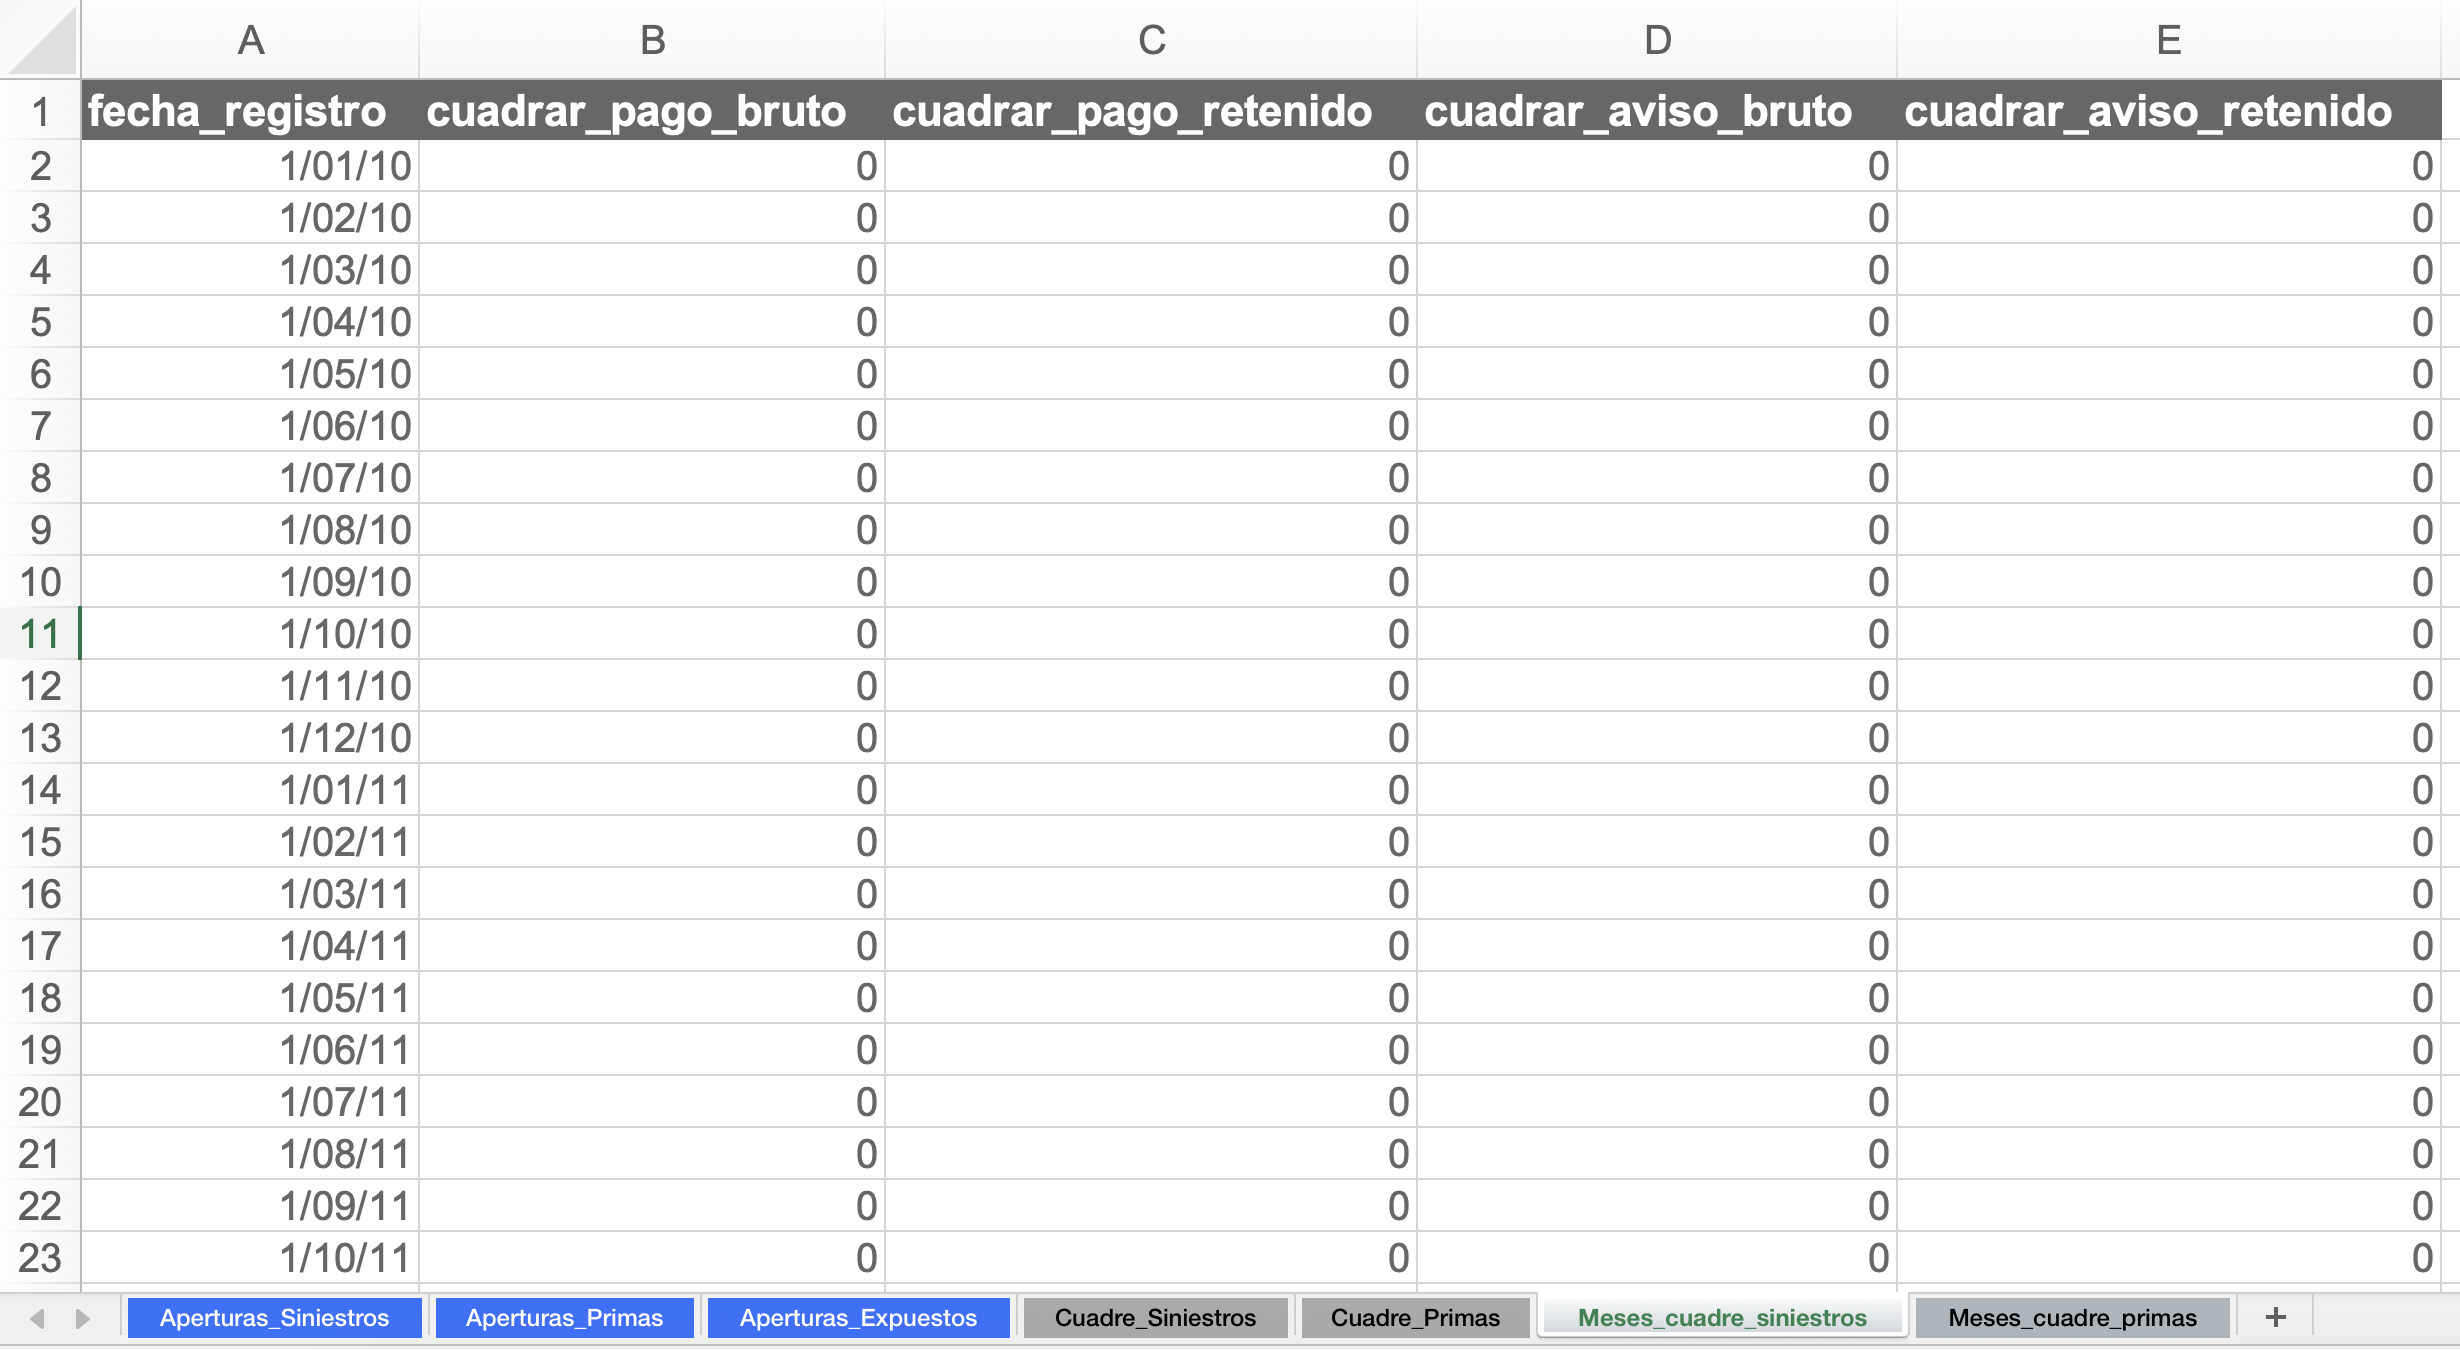
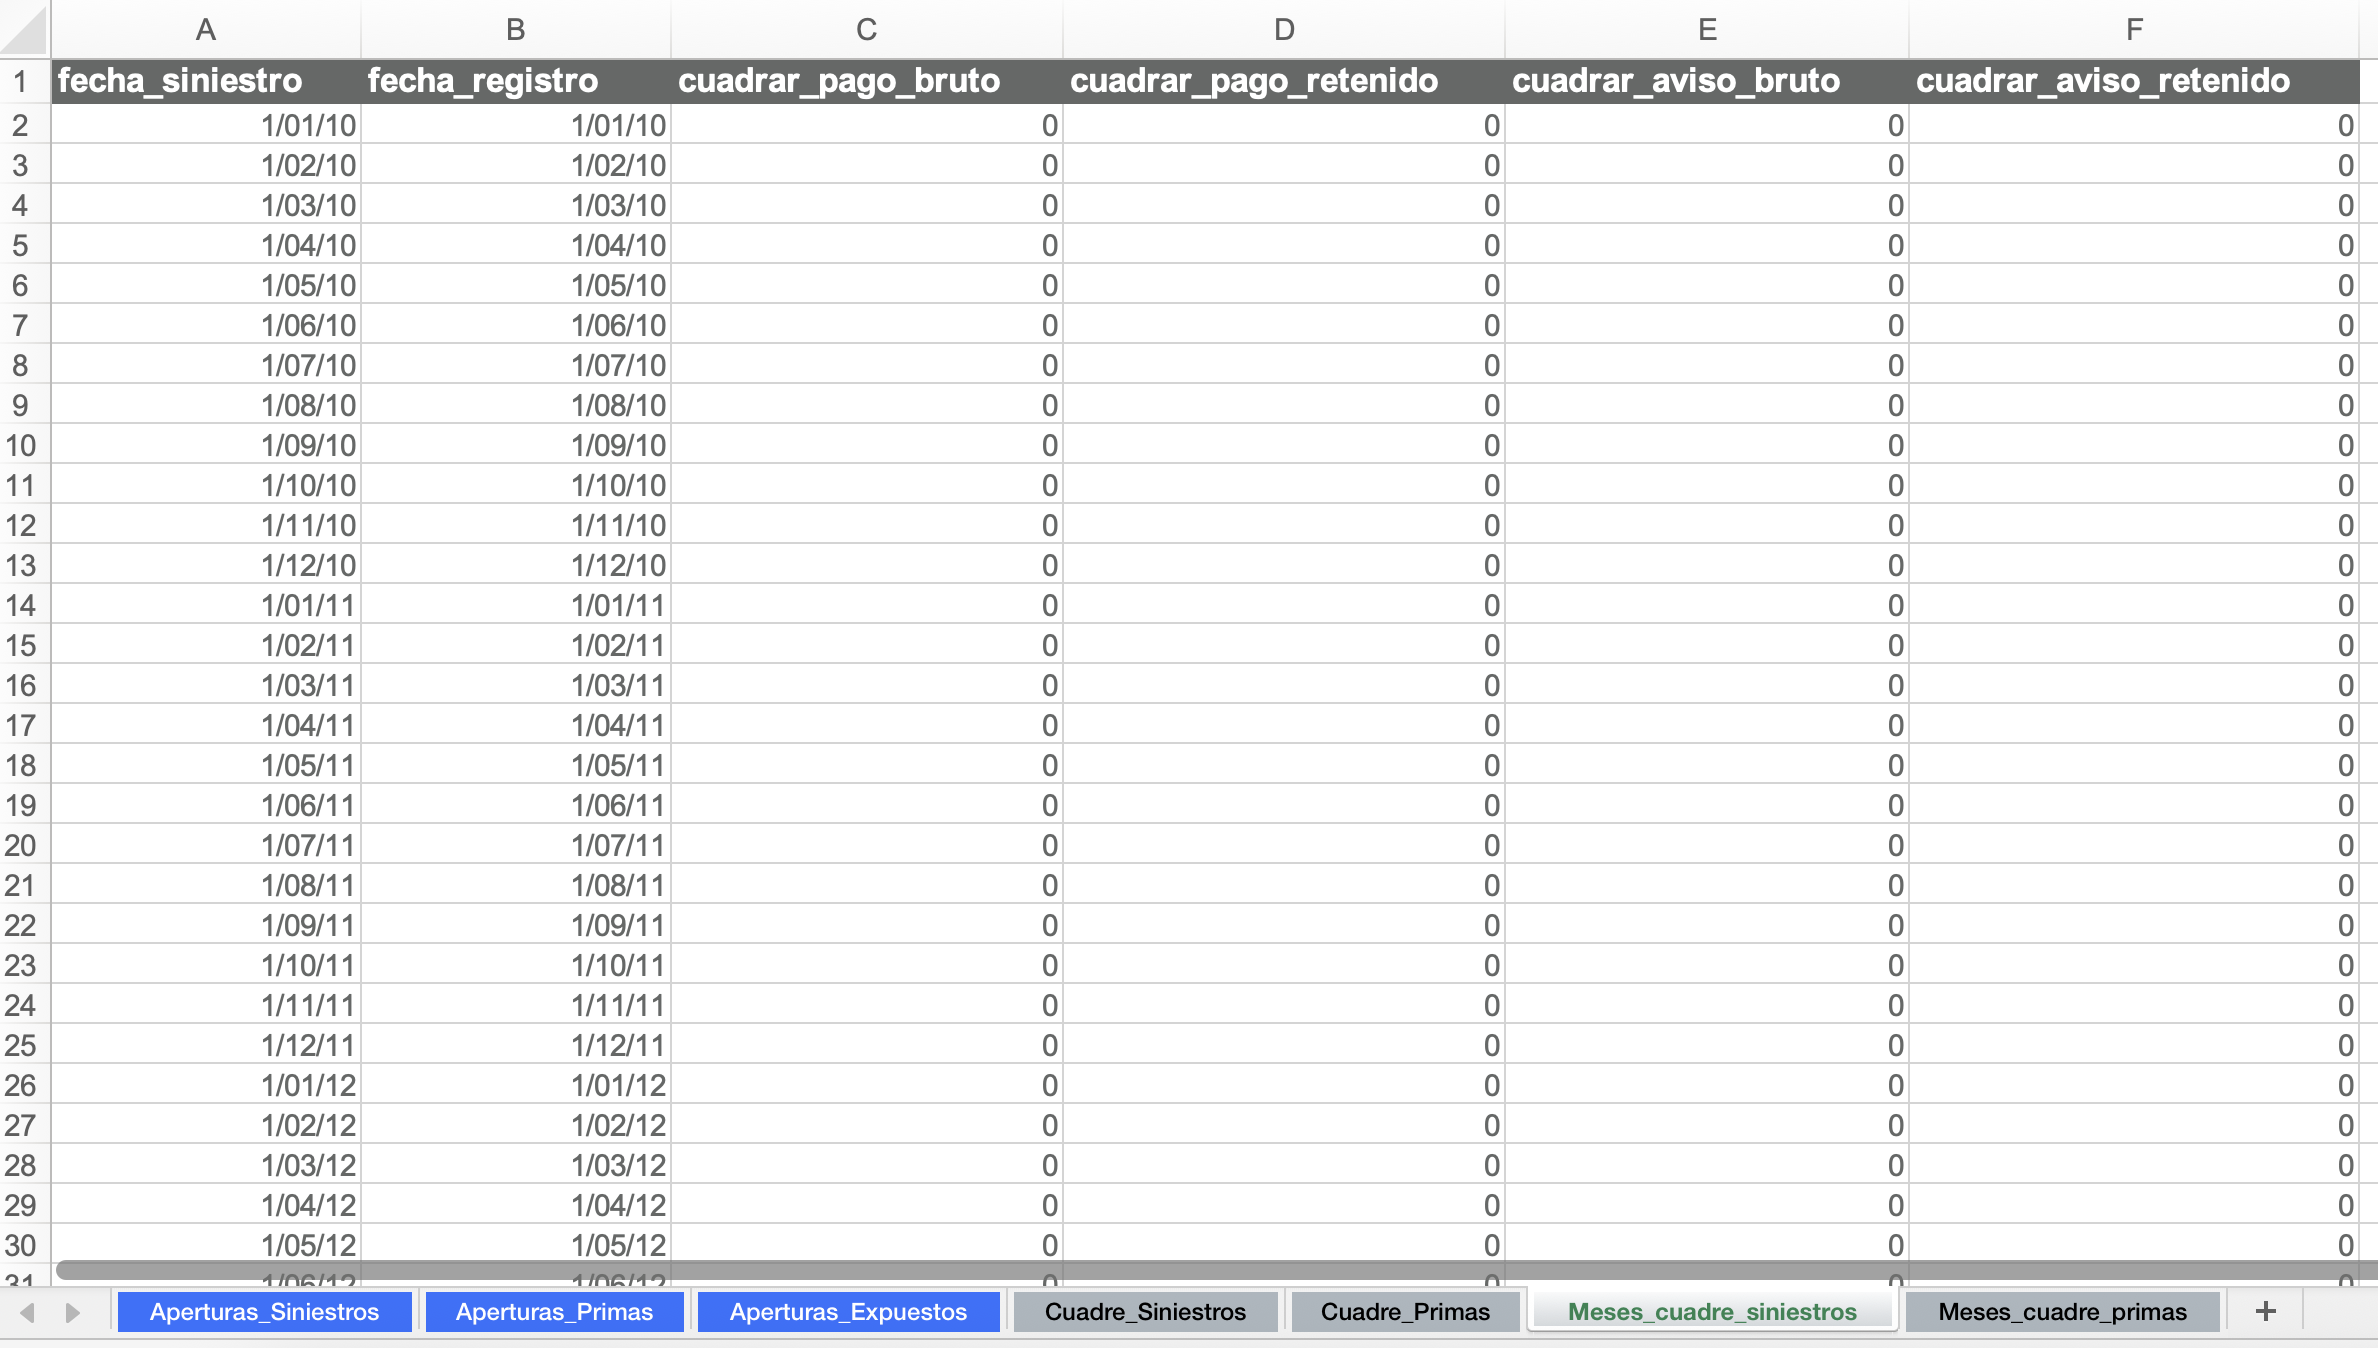
feat: Documentar reparticion de diferencias contables por ocurrencia

Changed region(s): [[0.0, 0.0, 1.0, 0.997]]

diff --git a/docs/uso/controles.md b/docs/uso/controles.md
@@ -31,7 +31,7 @@ En la pantalla verá dos casillas de verificación (_checkboxes_) para indicar s
 
 En la parte inferior, bajo los títulos **Archivos para incluir en controles y cuadre de siniestros, primas, y expuestos**, debe seleccionar qué archivos (ya sea de extracción o carga manual) se compararán contra SAP.
 
-- El sistema calcula las diferencias a nivel de ramo-compañía y las reparte en las aperturas definidas en las hojas **Cuadre_Siniestros** y **Cuadre_Primas** del [archivo de segmentación](../config/segmentacion.md#aperturas-para-repartir-diferencias).
+- El sistema calcula las diferencias a nivel de ramo-compañía y las reparte en las aperturas y ocurrencias definidas en las hojas **Cuadre_Siniestros**, **Cuadre_Primas** y **Meses_cuadre_siniestros** del [archivo de segmentación](../config/segmentacion.md#aperturas-para-repartir-diferencias).
 - Si especificó más de una apertura, la diferencia se reparte proporcionalmente a la participación de cada apertura en la cifra contable histórica.
 
 !!! info
@@ -44,9 +44,6 @@ En la parte inferior, bajo los títulos **Archivos para incluir en controles y c
     - **"Motos"**, con $100,000 pagados en toda la historia.
     
     Para el cuadre contable, se asignarán $75 a "Autos" y $25 a "Motos" para agosto 2025.
-
-!!! note "Nota"
-    En el cuadre de siniestros, **toda la diferencia se asigna a la fecha de ocurrencia más reciente** dentro de cada fecha de registro.
 
 ## Controles de información
 

diff --git a/docs/config/segmentacion.md b/docs/config/segmentacion.md
@@ -97,10 +97,11 @@ Agregue dos hojas:
 - **Meses_cuadre_siniestros**  
 - **Meses_cuadre_primas**
 
-Cada una debe tener una tabla con los todos los meses de movimiento esperados, y columnas para especificar si cada cantidad se va a cuadrar o no. En estas columnas indique con:
+Cada una debe tener una tabla con los todos los meses de movimiento esperados, y columnas para especificar si cada cantidad se va a cuadrar o no.
 
-- **1** → se ajusta a la cifra contable.  
-- **0** → no se ajusta.
+En la hoja **Meses_cuadre_siniestros** debe incluirse una columna **fecha_siniestro**, que permitirá definir las ocurrencias sobre las cuales se distribuirá la diferencia contable de cada periodo. Complete las columnas de cantidades con las proporciones en las que se realizará dicha distribución. Si una cantidad no debe cuadrarse en un periodo determinado, deje el valor en **0**.
+
+En la hoja **Meses_cuadre_primas**, marque con un **1** los periodos contables y cantidades que desea cuadrar.
 
 !!! example "Ejemplo"
     ![Ejemplo meses cuadre](assets/ejemplo_meses_cuadre.png)
